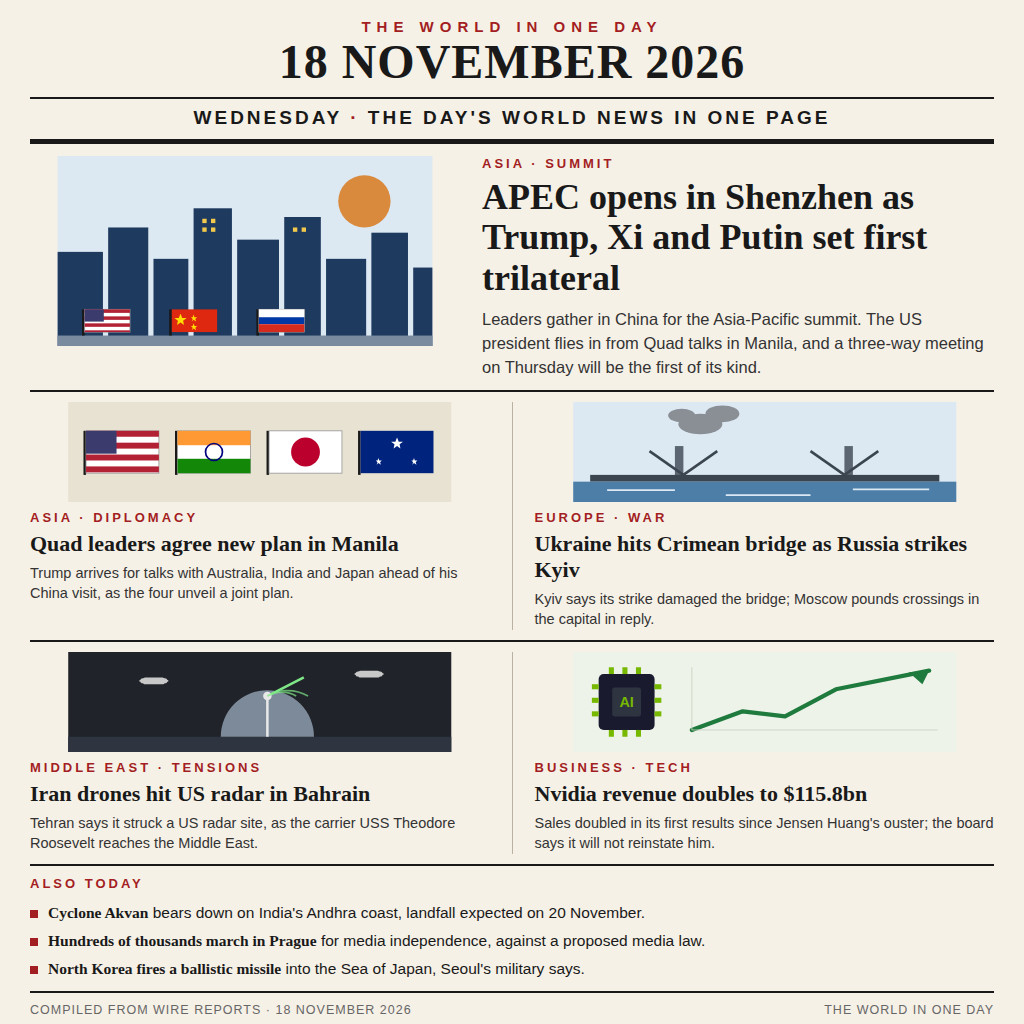
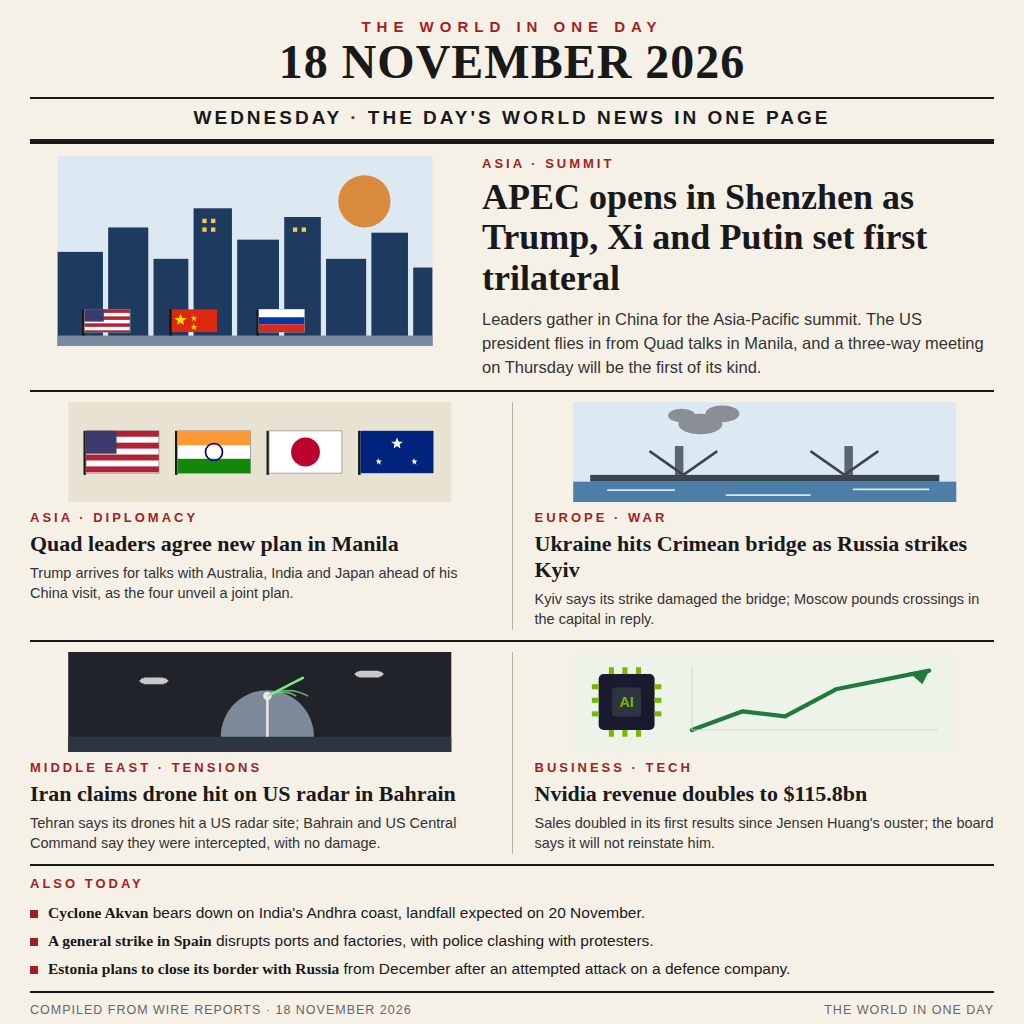
Replace entry.png and main.ts with corrected versions

Changed region(s): [[0.0312, 0.9062, 0.7812, 0.9688], [0.0312, 0.75, 0.4375, 0.8438]]

diff --git a/main.ts b/main.ts
@@ -10,9 +10,10 @@
 // fields, each with its own drawn picture and a short label: the APEC summit
 // opening in Shenzhen with the first Trump-Xi-Putin trilateral set for the
 // next day; the Quad's new plan in Manila; Ukraine's strike on the Crimean
-// bridge as Russia hits Kyiv; Iran's drone attack on a US radar site in
-// Bahrain; Nvidia's revenue doubling to $115.8bn; and briefs on Cyclone
-// Akvan, the Prague march and North Korea's missile launch. Nothing in it
+// bridge as Russia hits Kyiv; Iran's claimed drone attack on a US radar site
+// in Bahrain, which Bahrain and US Central Command say was intercepted;
+// Nvidia's revenue doubling to $115.8bn; and briefs on Cyclone Akvan, the
+// Spanish general strike and Estonia's planned border closure with Russia.
 // is invented: every headline follows wire reports of 18 November 2026.
 //
 // Revised once after a first run: the program now checks its own output
